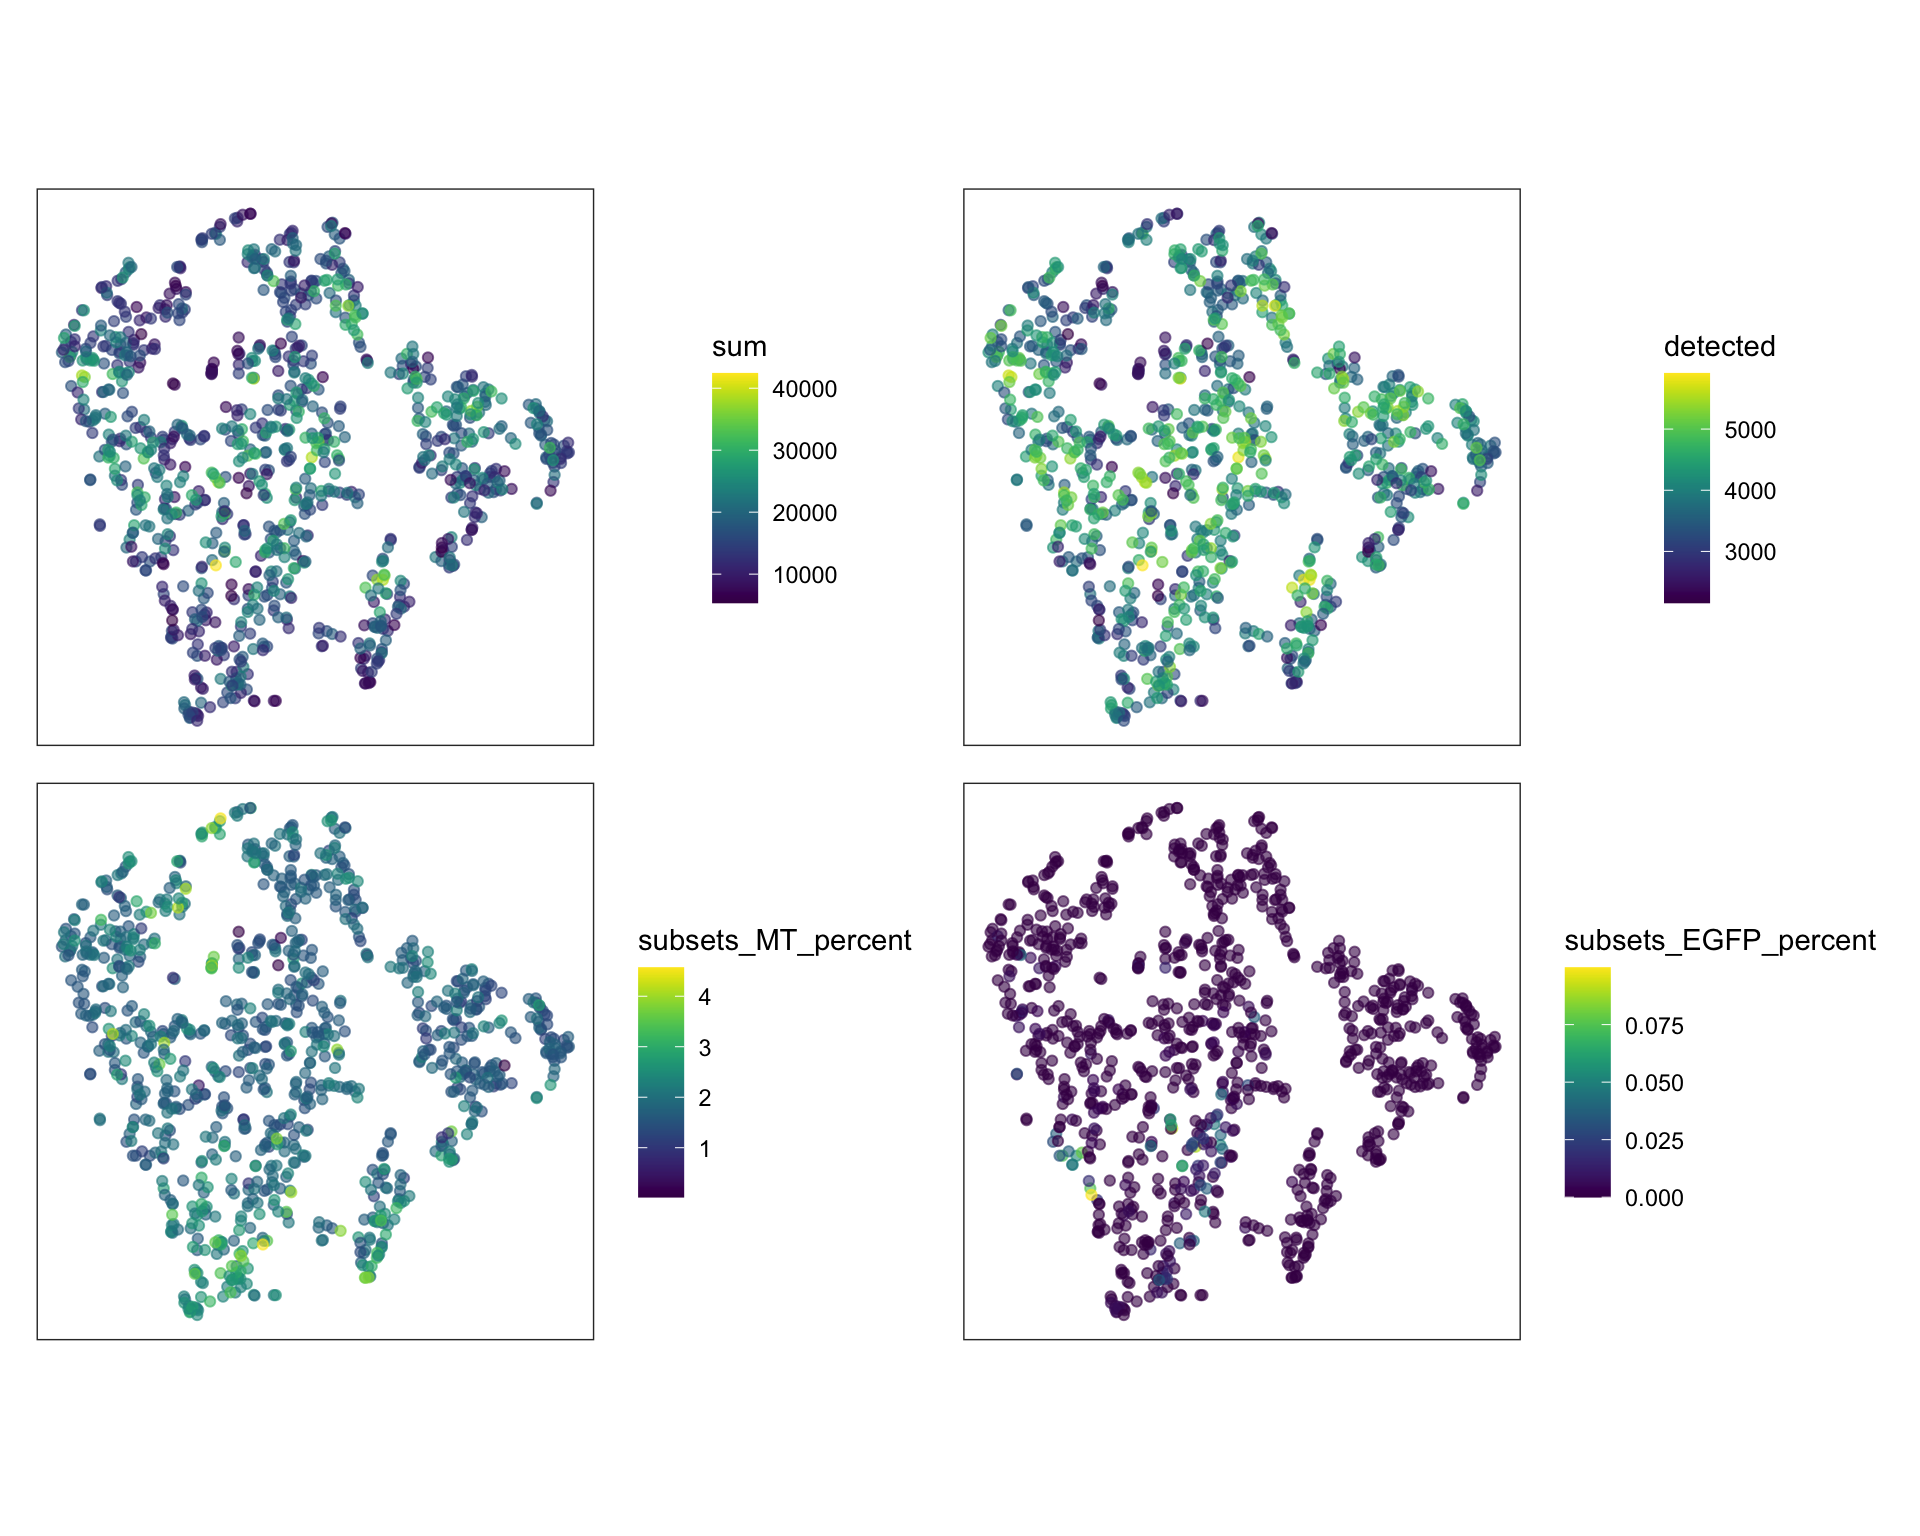
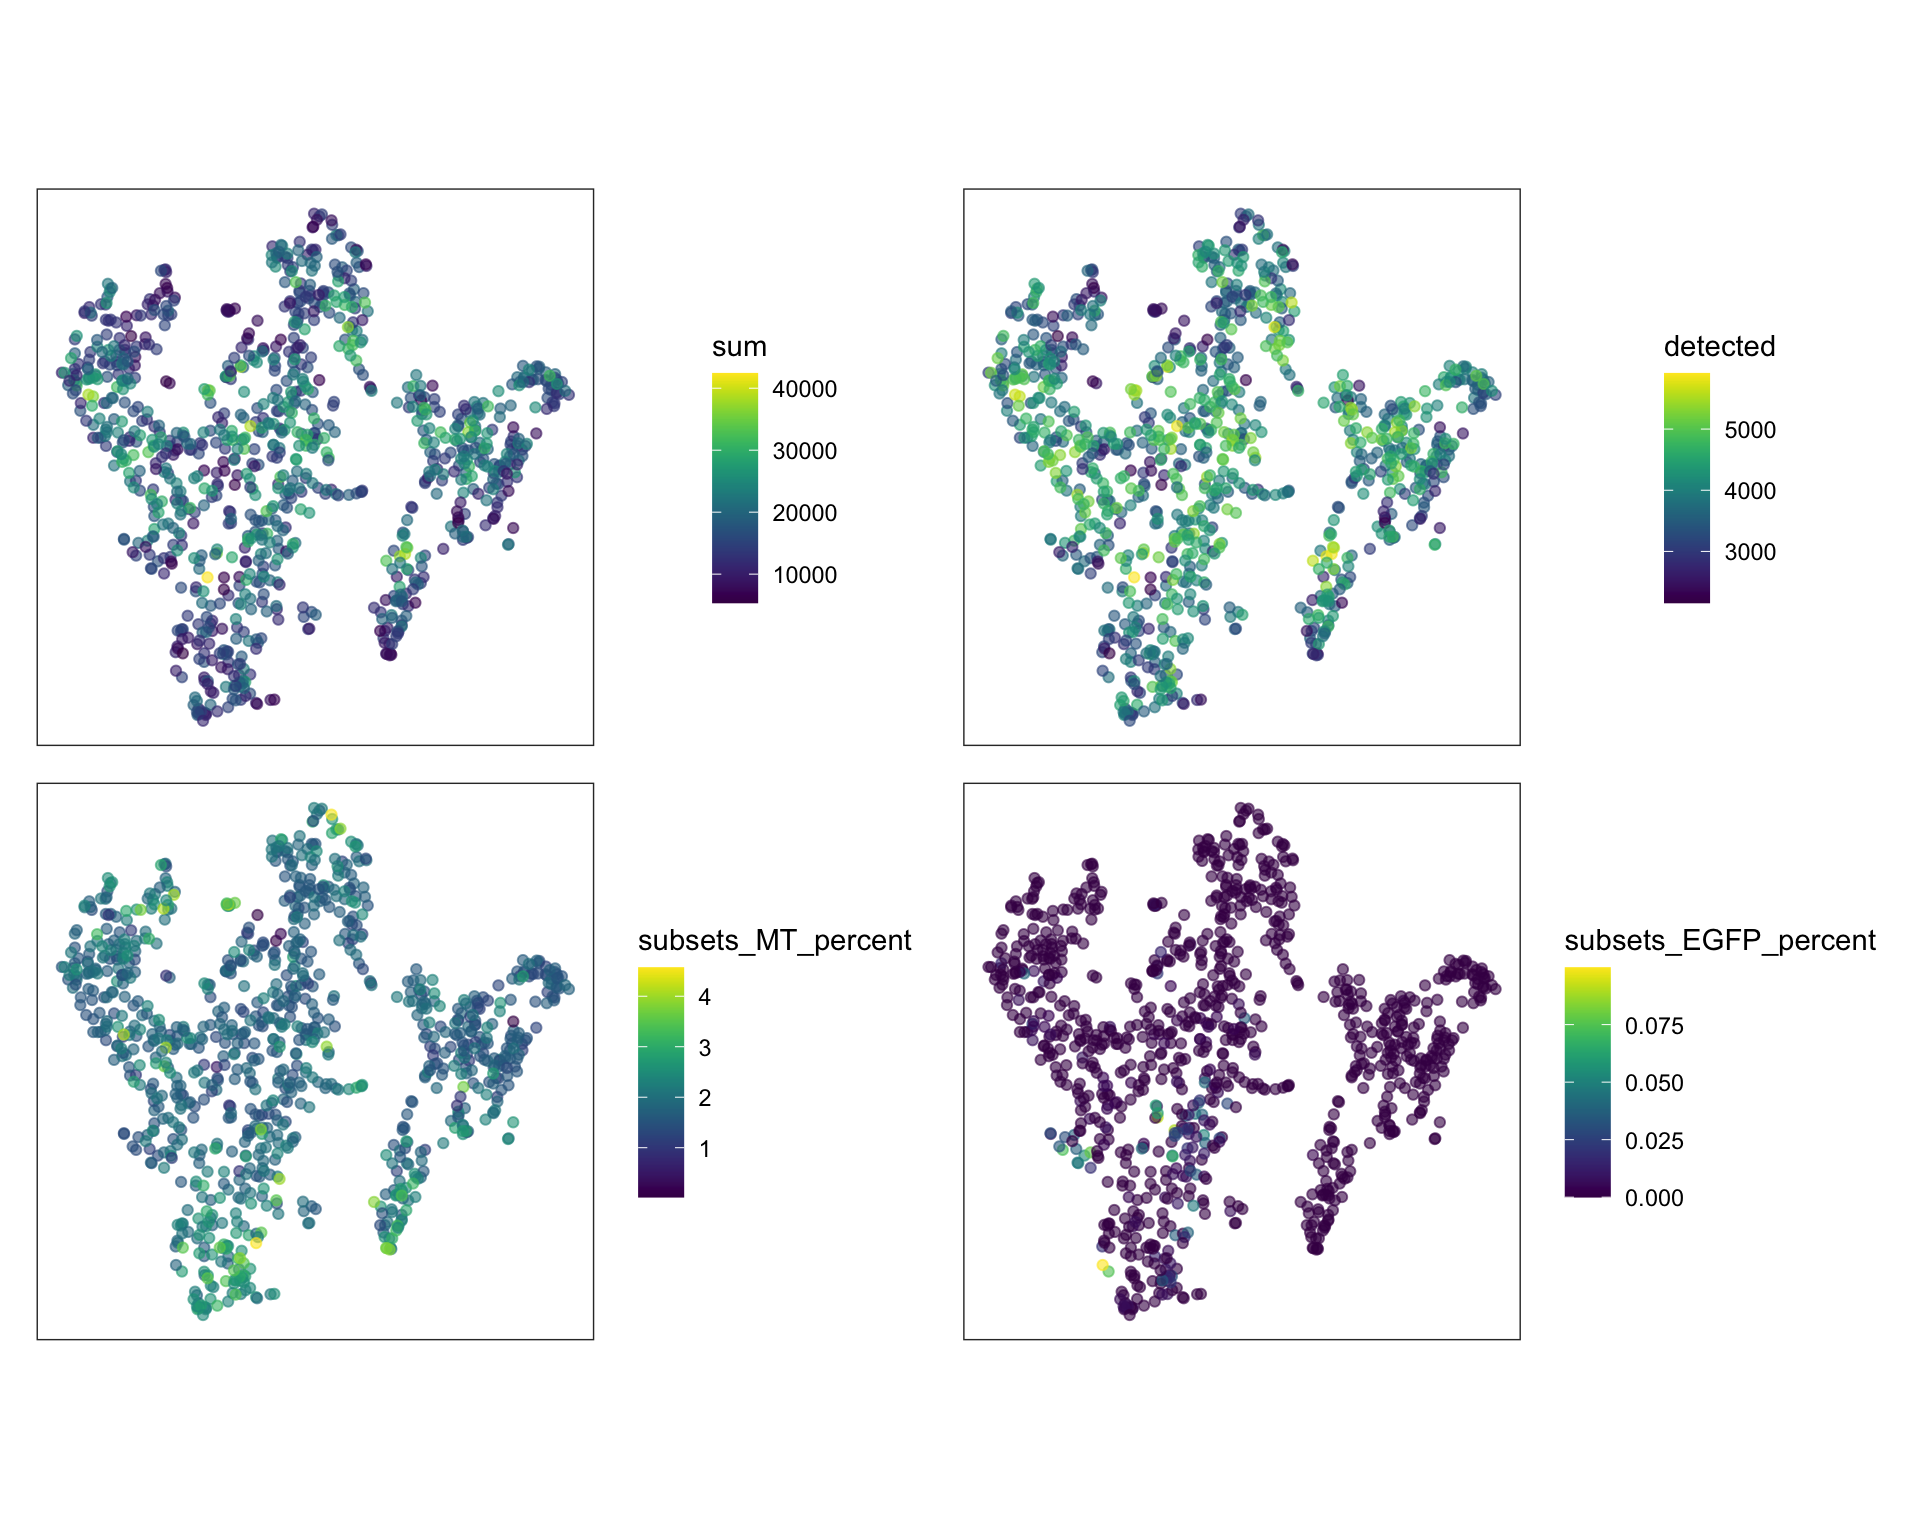
Build

diff --git a/docs/02-reduced-dimensions.html b/docs/02-reduced-dimensions.html
@@ -500,16 +500,16 @@ This reproducible <a href="http://rmarkdown.rstudio.com">R Markdown</a> analysis
 <div class="panel panel-default">
 <div class="panel-heading">
 <p class="panel-title">
-<a data-toggle="collapse" data-parent="#workflowr-checks" href="#strongRepositoryversionstrongahrefhttpsgithubcomjma1991EBKDRtree80b830287d6b6c8abe97129db6dc96120ffe8412targetblank80b8302a"> <span class="glyphicon glyphicon-ok text-success" aria-hidden="true"></span> <strong>Repository version:</strong> <a href="https://github.com/jma1991/EB_KDR/tree/80b830287d6b6c8abe97129db6dc96120ffe8412" target="_blank">80b8302</a> </a>
+<a data-toggle="collapse" data-parent="#workflowr-checks" href="#strongRepositoryversionstrongahrefhttpsgithubcomjma1991EBKDRtreead25e00bf3882ea332a74344141a1533c76ecec8targetblankad25e00a"> <span class="glyphicon glyphicon-ok text-success" aria-hidden="true"></span> <strong>Repository version:</strong> <a href="https://github.com/jma1991/EB_KDR/tree/ad25e00bf3882ea332a74344141a1533c76ecec8" target="_blank">ad25e00</a> </a>
 </p>
 </div>
[2 lines of base64/hex data omitted]
 <div class="panel-body">
 <p>
 Great! You are using Git for version control. Tracking code development and connecting the code version to the results is critical for reproducibility.
 </p>
 <p>
-The results in this page were generated with repository version <a href="https://github.com/jma1991/EB_KDR/tree/80b830287d6b6c8abe97129db6dc96120ffe8412" target="_blank">80b8302</a>. See the <em>Past versions</em> tab to see a history of the changes made to the R Markdown and HTML files.
+The results in this page were generated with repository version <a href="https://github.com/jma1991/EB_KDR/tree/ad25e00bf3882ea332a74344141a1533c76ecec8" target="_blank">ad25e00</a>. See the <em>Past versions</em> tab to see a history of the changes made to the R Markdown and HTML files.
 </p>
 <p>
 Note that you need to be careful to ensure that all relevant files for the analysis have been committed to Git prior to generating the results (you can use <code>wflow_publish</code> or <code>wflow_git_commit</code>). workflowr only checks the R Markdown file, but you know if there are other scripts or data files that it depends on. Below is the status of the Git repository when the results were generated:
@@ -518,7 +518,6 @@ Note that you need to be careful to ensure that all relevant files for the analy
 Ignored files:
     Ignored:    .Rproj.user/
     Ignored:    analysis/cache/
-    Ignored:    analysis/figure/
 
 Untracked files:
     Untracked:  _workflowr.R
@@ -571,6 +570,40 @@ Message
 </tr>
 </thead>
 <tbody>
+<tr>
+<td>
+Rmd
+</td>
+<td>
+<a href="https://github.com/jma1991/EB_KDR/blob/ad25e00bf3882ea332a74344141a1533c76ecec8/analysis/02-reduced-dimensions.Rmd" target="_blank">ad25e00</a>
+</td>
+<td>
+James Ashmore
+</td>
+<td>
+2021-07-16
+</td>
+<td>
+Build
+</td>
+</tr>
+<tr>
+<td>
+html
+</td>
+<td>
+<a href="https://rawcdn.githack.com/jma1991/EB_KDR/17093d21d13c5848fc8e527fb3d70b88aa13cfa3/docs/02-reduced-dimensions.html" target="_blank">17093d2</a>
+</td>
+<td>
+James Ashmore
+</td>
+<td>
+2021-07-16
+</td>
+<td>
+Build
+</td>
+</tr>
 <tr>
 <td>
 Rmd
@@ -742,7 +775,7 @@ wrap_plots(plt, nrow = 6, ncol = 6, byrow = FALSE)</code></pre>
 <p>Select optimal perplexity value and number of iterations:</p>
 <pre class="r"><code>set.seed(1101000110)
 
-sce &lt;- runTSNE(sce, dimred = &quot;corrected&quot;, perplexity = 23, max_iter = 500)</code></pre>
+sce &lt;- runTSNE(sce, dimred = &quot;corrected&quot;, perplexity = 41, max_iter = 1500)</code></pre>
 </div>
 </div>
 <div id="umap" class="section level2">
@@ -779,13 +812,50 @@ plt &lt;- apply(arg, 1, function(x) {
 
 wrap_plots(plt, nrow = 6, ncol = 6, byrow = FALSE)</code></pre>
 <p><img src="figure/02-reduced-dimensions.Rmd/unnamed-chunk-15-1.png" width="960" style="display: block; margin: auto;" /></p>
+<p>
+<button type="button" class="btn btn-default btn-xs btn-workflowr btn-workflowr-fig" data-toggle="collapse" data-target="#fig-unnamed-chunk-15-1">
+Past versions of unnamed-chunk-15-1.png
+</button>
+</p>
+<div id="fig-unnamed-chunk-15-1" class="collapse">
+<div class="table-responsive">
+<table class="table table-condensed table-hover">
+<thead>
+<tr>
+<th>
+Version
+</th>
+<th>
+Author
+</th>
+<th>
+Date
+</th>
+</tr>
+</thead>
+<tbody>
+<tr>
+<td>
+<a href="https://github.com/jma1991/EB_KDR/blob/17093d21d13c5848fc8e527fb3d70b88aa13cfa3/docs/figure/02-reduced-dimensions.Rmd/unnamed-chunk-15-1.png" target="_blank">17093d2</a>
+</td>
+<td>
+James Ashmore
+</td>
+<td>
+2021-07-16
+</td>
+</tr>
+</tbody>
+</table>
+</div>
+</div>
 </div>
 <div id="calculate-umap" class="section level3">
 <h3>Calculate UMAP</h3>
 <p>Select optimal number of nearest neighbors:</p>
 <pre class="r"><code>set.seed(0000100110)
 
-sce &lt;- runUMAP(sce, dimred = &quot;corrected&quot;, n_neighbors = 41, min_dist = 0.2)</code></pre>
+sce &lt;- runUMAP(sce, dimred = &quot;corrected&quot;, n_neighbors = 60, min_dist = 0.2)</code></pre>
 </div>
 </div>
 <div id="variables" class="section level2 tabset">
@@ -798,6 +868,43 @@ plt &lt;- lapply(var, function(x) plotReducedDim(sce, &quot;corrected&quot;, col
 
 patchwork::wrap_plots(plt, ncol = 2)</code></pre>
 <p><img src="figure/02-reduced-dimensions.Rmd/unnamed-chunk-17-1.png" width="960" style="display: block; margin: auto;" /></p>
+<p>
+<button type="button" class="btn btn-default btn-xs btn-workflowr btn-workflowr-fig" data-toggle="collapse" data-target="#fig-unnamed-chunk-17-1">
+Past versions of unnamed-chunk-17-1.png
+</button>
+</p>
+<div id="fig-unnamed-chunk-17-1" class="collapse">
+<div class="table-responsive">
+<table class="table table-condensed table-hover">
+<thead>
+<tr>
+<th>
+Version
+</th>
+<th>
+Author
+</th>
+<th>
+Date
+</th>
+</tr>
+</thead>
+<tbody>
+<tr>
+<td>
+<a href="https://github.com/jma1991/EB_KDR/blob/17093d21d13c5848fc8e527fb3d70b88aa13cfa3/docs/figure/02-reduced-dimensions.Rmd/unnamed-chunk-17-1.png" target="_blank">17093d2</a>
+</td>
+<td>
+James Ashmore
+</td>
+<td>
+2021-07-16
+</td>
+</tr>
+</tbody>
+</table>
+</div>
+</div>
 </div>
 <div id="tsne-1" class="section level3">
 <h3>TSNE</h3>
@@ -807,6 +914,43 @@ plt &lt;- lapply(var, function(x) plotTSNE(sce, colour_by = x) + theme_no_axes()
 
 patchwork::wrap_plots(plt, ncol = 2)</code></pre>
 <p><img src="figure/02-reduced-dimensions.Rmd/unnamed-chunk-18-1.png" width="960" style="display: block; margin: auto;" /></p>
+<p>
+<button type="button" class="btn btn-default btn-xs btn-workflowr btn-workflowr-fig" data-toggle="collapse" data-target="#fig-unnamed-chunk-18-1">
+Past versions of unnamed-chunk-18-1.png
+</button>
+</p>
+<div id="fig-unnamed-chunk-18-1" class="collapse">
+<div class="table-responsive">
+<table class="table table-condensed table-hover">
+<thead>
+<tr>
+<th>
+Version
+</th>
+<th>
+Author
+</th>
+<th>
+Date
+</th>
+</tr>
+</thead>
+<tbody>
+<tr>
+<td>
+<a href="https://github.com/jma1991/EB_KDR/blob/17093d21d13c5848fc8e527fb3d70b88aa13cfa3/docs/figure/02-reduced-dimensions.Rmd/unnamed-chunk-18-1.png" target="_blank">17093d2</a>
+</td>
+<td>
+James Ashmore
+</td>
+<td>
+2021-07-16
+</td>
+</tr>
+</tbody>
+</table>
+</div>
+</div>
 </div>
 <div id="umap-1" class="section level3">
 <h3>UMAP</h3>
@@ -816,6 +960,43 @@ plt &lt;- lapply(var, function(x) plotUMAP(sce, colour_by = x) + theme_no_axes()
 
 patchwork::wrap_plots(plt, ncol = 2)</code></pre>
 <p><img src="figure/02-reduced-dimensions.Rmd/unnamed-chunk-19-1.png" width="960" style="display: block; margin: auto;" /></p>
+<p>
+<button type="button" class="btn btn-default btn-xs btn-workflowr btn-workflowr-fig" data-toggle="collapse" data-target="#fig-unnamed-chunk-19-1">
+Past versions of unnamed-chunk-19-1.png
+</button>
+</p>
+<div id="fig-unnamed-chunk-19-1" class="collapse">
+<div class="table-responsive">
+<table class="table table-condensed table-hover">
+<thead>
+<tr>
+<th>
+Version
+</th>
+<th>
+Author
+</th>
+<th>
+Date
+</th>
+</tr>
+</thead>
+<tbody>
+<tr>
+<td>
+<a href="https://github.com/jma1991/EB_KDR/blob/17093d21d13c5848fc8e527fb3d70b88aa13cfa3/docs/figure/02-reduced-dimensions.Rmd/unnamed-chunk-19-1.png" target="_blank">17093d2</a>
+</td>
+<td>
+James Ashmore
+</td>
+<td>
+2021-07-16
+</td>
+</tr>
+</tbody>
+</table>
+</div>
+</div>
 </div>
 </div>
 <div id="summary" class="section level2">
